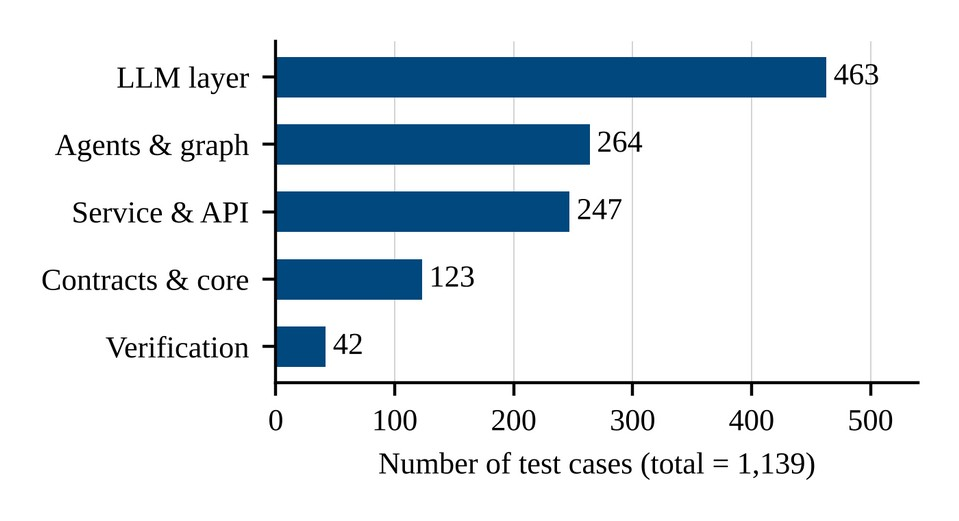
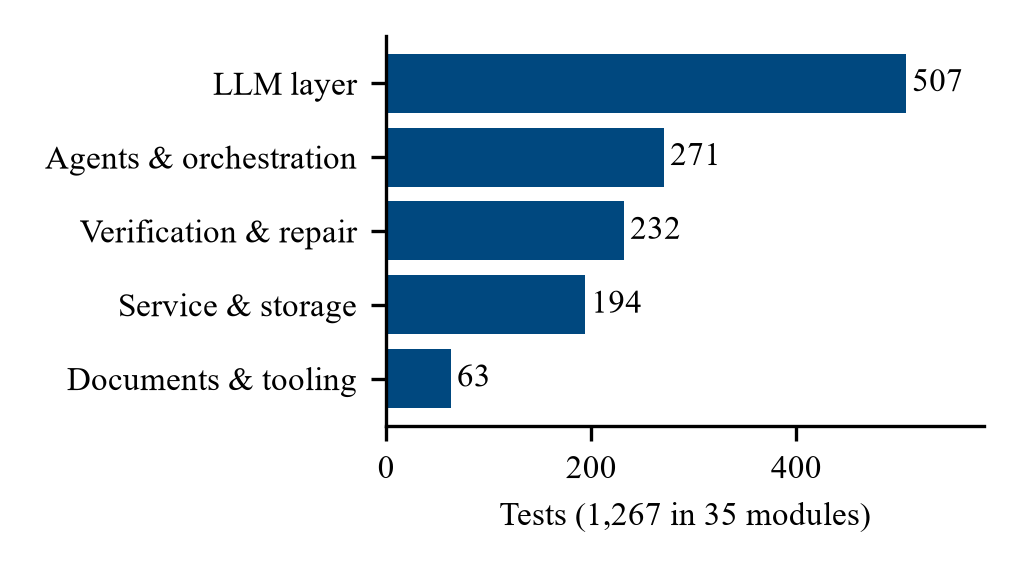
Benchmark: search only the provider's message for infrastructure errors

Changed region(s): [[0.0302, 0.0614, 0.9677, 0.9213], [0.2722, 0.7985, 0.3024, 0.8292]]

diff --git a/paper/AutoDev_IEEE_Final.tex b/paper/AutoDev_IEEE_Final.tex
@@ -283,7 +283,8 @@ services, endpoints, data models, databases, environment variables and
 implementation tasks. The Developer writes per-service source files, and QA
 returns bugs with severities, per-service quality scores and test files. Each
 agent has two prompts: a structured prompt for the JSON contract consumed by the
-next agent, and a text prompt for a client-facing PDF.
+next agent, and a text prompt for an optional client-facing PDF (off by default,
+since the console renders the same documents from the JSON).
 
 \begin{table}[t]
 \caption{Agents and Their Contracts}
@@ -331,11 +332,21 @@ human revision loops and verification-driven repair loops.}
 \label{sec:verification}
 Verification is ordered by cost (Algorithm~\ref{alg:verify}). The static gate
 compiles every generated Python file and runs the Ruff linter per service, with
-no model call; code that does not parse goes straight back to the Developer.
+no model call; code that does not parse goes straight back to the Developer. It
+also checks what a compiler and a linter cannot see but live runs kept
+producing: an import of a name or module that no file of the service defines, a
+module hidden by a same-named package (Python imports the package), and APIs a
+library has moved, such as \texttt{BaseSettings} leaving Pydantic~2 for
+\texttt{pydantic-settings}. Before anything is written, generated files whose
+line breaks arrive escaped as literal \texttt{\textbackslash n} are restored when
+the restored text parses.
 Code that parses reaches QA, which reviews in two steps: a cheap triage call
 sees only the file manifest and selects the files worth reading, and only those
 files are loaded and scored. The test runner then installs the project's
-dependencies and executes the pytest files QA wrote.
+dependencies and executes the pytest files QA wrote, together with one test it
+adds itself: that the application imports. Without it, a QA suite that only
+exercises schemas can pass while the application cannot start, and an import
+failure is reported with the project file and line that caused it.
 
 Let $T$ be the number of failing or erroring tests, $K$ the number of services
 whose tests could not run, $C$ the number of critical bugs and $s_i$ the quality
@@ -469,8 +480,9 @@ d = 2F + E + M + 2D
 \label{eq:difficulty}
 \end{equation}
 where $F$, $E$, $M$ and $D$ are its key files, endpoints, data models and service
-dependencies. Services with $d\le12$ use the low tier, $d\ge48$ the high tier,
-and the rest the medium tier. If verification shows that a tier was too weak, the
+dependencies. Services with $d<12$ use the low tier, $d\ge48$ the high tier,
+and the rest the medium tier. Routing is off by default, and the experiments in
+Section~VI use a single model for every purpose, so they do not exercise it. If verification shows that a tier was too weak, the
 service is escalated by at most one tier, and never for failures a stronger model
 cannot fix, such as rate limits or rejected keys. Completion ceilings are likewise
 sized per purpose and narrowed when the expected answer size is known.
@@ -484,7 +496,7 @@ allows a container backend to replace the local subprocess runner.
 %% =============================================== IV. NOVELTY & CONTRIBUTIONS
 \section{Novelty and Contributions}
 
-Compared with the baselines in Section~II, AutoDev makes four distinct
+Compared with the baselines in Section~II, AutoDev makes six distinct
 contributions.
 
 \textbf{N1. Contract-first, fail-closed orchestration with persistent human
@@ -519,16 +531,43 @@ explainable integer difficulty score routes each service to a model tier and
 escalates at most one step on evidence. Together these let the pipeline run on
 free-tier and local models, not only on frontier APIs.
 
+\textbf{N5. Model-free defences against LLM-specific code defects.} Live runs
+produced defects that compile, lint clean and are invisible to a reviewer model:
+imports of functions no file defines, a package created beside a same-named module
+(which Python then imports instead), library APIs from an older major version, and
+whole files whose line breaks arrived escaped. Each is caught or repaired by a
+deterministic check that resolves imports the way the interpreter does, before any
+model is asked to review the code. The test runner also owns one test that no
+agent writes---that the application imports---so a reviewer-written suite cannot
+pass ``hollowly'' while the application fails to start; in one observed run, two
+schema-only tests passed against an application that crashed on import. The
+failure names the project file and line to fix, which is the evidence the next
+Developer pass receives.
+
+\textbf{N6. Budget-fitted repair and measured cost.} A repair prompt carries real
+compiler output and tracebacks, which can exceed a small per-minute window on
+their own. Failure evidence is therefore condensed in graded levels (deduplicated
+assertion lines, then fewer failures, then shorter messages) until the whole call,
+prompt plus completion ceiling, fits the window, instead of failing the stage. All
+model calls are recorded in one ledger at the single point every call passes
+through, with the provider's own token counts captured by a callback even when a
+structured-output parser discards the raw message, and priced only from published
+rates. Cost per verified project is thus measured rather than estimated, and the
+same per-service independence that enables attribution lets a project's services
+be generated concurrently under the shared budget.
+
 %% =================================================== V. IMPLEMENTATION
 \section{Implementation Details}
 
 \subsection{Technology Stack}
 Table~\ref{tab:stack} summarises the stack. The back end is Python, with
 LangGraph~1.0 for orchestration, Pydantic~v2 for contracts and settings, FastAPI
-with SSE for the service, aiosqlite for persistence, Tenacity for retries and
-fpdf2 for client documents. Gemini~2.5 Flash is the default model; Groq, OpenAI,
-Ollama and Cerebras are selectable through LangChain provider packages. The
-console is written in Next.js~14 and TypeScript. Development used VS Code, Git
+with SSE for the service, aiosqlite for persistence and fpdf2 for optional
+client documents; retries use the error classifier of Section~III-E rather than a
+retry library. Gemini~2.5 Flash is the default model; Groq, Ollama, Cerebras and
+any OpenAI-compatible API (OpenAI, DeepSeek, Qwen, OpenRouter) are selectable
+through LangChain provider packages. The live experiments in Section~VI use
+DeepSeek~V4.1 Flash. The console is written in Next.js~14 and TypeScript. Development used VS Code, Git
 and GitHub~\cite{autodevrepo}.
 
 \begin{table}[t]
@@ -542,12 +581,12 @@ Layer & Tools \\
 \midrule
 Orchestration & LangGraph 1.0, SQLite checkpointer \\
 Contracts     & Pydantic v2, pydantic-settings \\
-LLM providers & Gemini 2.5 Flash (default), Groq, OpenAI, Ollama, Cerebras via LangChain \\
+LLM providers & Gemini 2.5 Flash (default), Groq, Ollama, Cerebras, OpenAI-compatible APIs (DeepSeek in Sec.~VI) via LangChain \\
 Service       & FastAPI, Uvicorn, SSE, aiosqlite \\
 Verification  & \texttt{py\_compile}, Ruff, pytest, subprocess sandbox \\
 Front end     & Next.js 14, TypeScript \\
 Artifacts     & fpdf2 (PDF), zip archive \\
-Testing       & pytest (1{,}139 tests), fake LLM for offline runs \\
+Testing       & pytest (1{,}267 tests), fake LLM for offline runs \\
 \bottomrule
 \end{tabular}
 \end{table}
@@ -555,7 +594,7 @@ Testing       & pytest (1{,}139 tests), fake LLM for offline runs \\
 \subsection{Code Organisation}
 The \texttt{agents}, \texttt{llm}, \texttt{verification}, \texttt{graph},
 \texttt{server}, \texttt{core} and \texttt{schema} packages comprise about
-8{,}800 lines of Python, and the console about 7{,}000 lines of TypeScript. All
+9{,}800 lines of Python, and the console about 7{,}200 lines of TypeScript. All
 settings (provider, per-purpose models and completion ceilings, TPM limit, retry
 limits, $\tau$ and $A$) are read from environment variables through a single
 settings object.
@@ -574,9 +613,10 @@ added, followed by the attribution module and surgical regeneration.
 \item \emph{LLM layer.} The provider registry, token budget, error classifier,
 structured-output ladder and difficulty router were built and unit-tested with a
 fake LLM and a simulated clock.
-\item \emph{Service and console.} A FastAPI service with ten routes (create, list,
-approve, give feedback to and cancel runs, stream events, browse files and download
-the archive) and the Next.js console were built on top of the same run service.
+\item \emph{Service and console.} A FastAPI service with fifteen routes (health;
+create, list, read, delete, approve, give feedback to and cancel runs; read the log
+and stream events; list and read files and artifacts, export a document as PDF,
+and download the archive) and the Next.js console were built on top of the same run service.
 \end{enumerate}
 
 \begin{figure}[t]
@@ -615,8 +655,8 @@ Component experiments use four dependency-free reference services (expense
 tracker, inventory, authentication, notification worker; 24 tests in total)
 written in exactly the layout the Developer agent emits, so the static gate and
 test runner process them as generated code. All use a fixed seed (42) and are
-reproduced by \texttt{evaluation/\allowbreak run\_component\_eval.py} (RQ1, RQ2)
-and \texttt{evaluation/\allowbreak run\_robustness\_eval.py} (RQ3).
+reproduced by \texttt{evaluation/\allowbreak component/\allowbreak run\_component\_eval.py}
+(RQ1, RQ2) and \texttt{evaluation/\allowbreak component/\allowbreak run\_robustness\_eval.py} (RQ3).
 
 \subsection{Metrics}
 Table~\ref{tab:metrics} defines the metrics. Because the output is executable

diff --git a/evaluation/run_e2e_benchmark.py b/evaluation/run_e2e_benchmark.py
@@ -131,6 +131,16 @@ def apply_environment(label: str, overrides: list[str], fake: bool) -> None:
     reset_settings_cache()
 
 
+def is_infra_error(error: str) -> bool:
+    """Whether the provider, not AutoDev, ended the run.
+
+    Only the provider's own message is searched. A parser error quotes the
+    model's output, and generated text about "daily" click counts once matched
+    the daily-quota pattern and stopped a benchmark.
+    """
+    provider_part = error.split("Invalid json output", 1)[0]
+    return bool(provider_part) and bool(_INFRA_ERROR.search(provider_part))
+
 # ── Requirements and results ─────────────────────────────────────
 
 
@@ -349,7 +359,7 @@ async def run_one(service: Any, item: dict[str, str], repeat: int, timeout: floa
         "run_id": record.id,
         "status": "timeout" if timed_out else record.status.value,
         "error": error[:2000],
-        "infra_error": bool(error) and bool(_INFRA_ERROR.search(error)),
+        "infra_error": is_infra_error(error),
         "started_at": started_at,
         "latency_seconds": round(latency, 1),
         "workspace": record.workspace,
